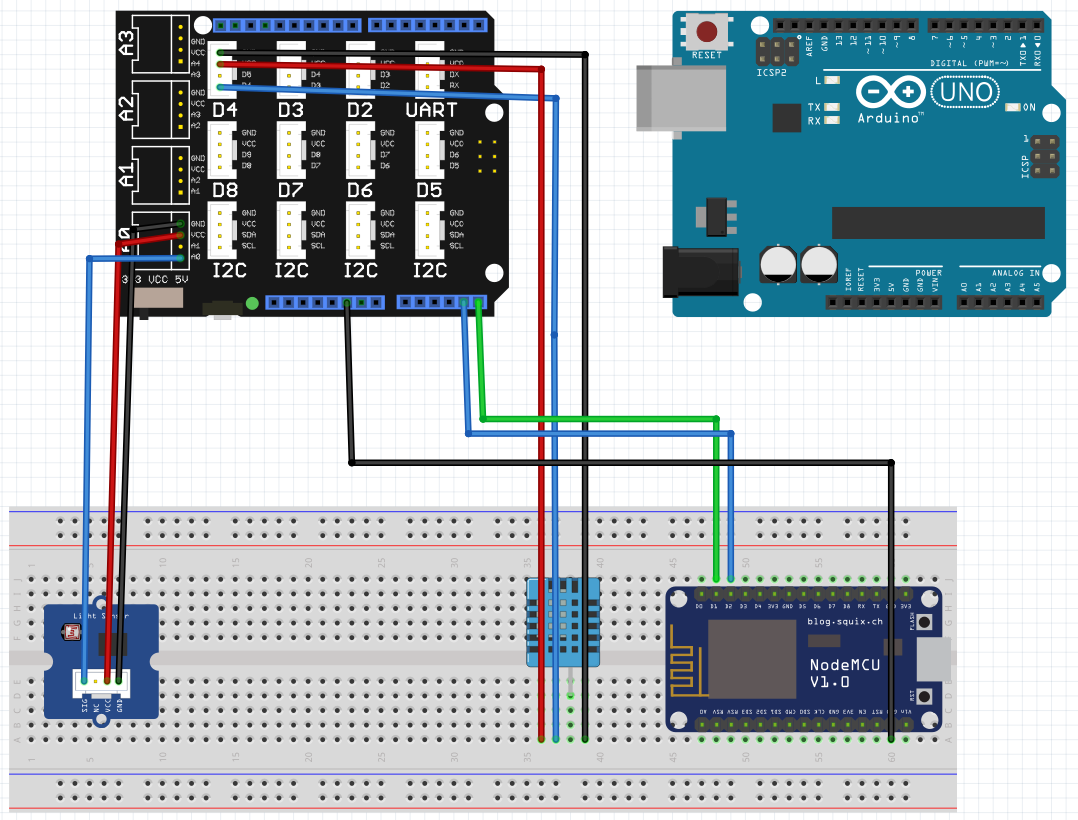
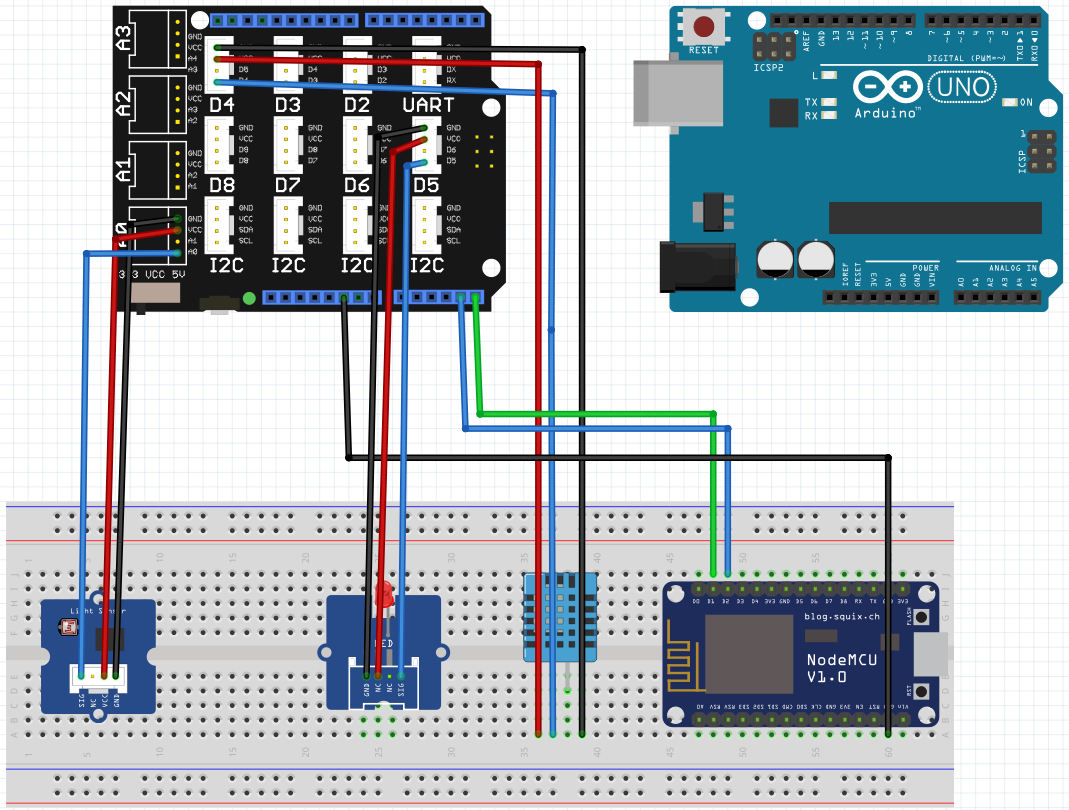
README: Add informations about LED

Changed region(s): [[0.0, 0.0, 0.8952, 1.0], [0.5865, 0.0, 1.0, 0.4012], [0.5865, 0.3086, 0.6174, 0.3395]]

diff --git a/README.md b/README.md
@@ -72,9 +72,9 @@ If you want to communicate with some database, first thing to do is creating it.
     - `brightness`
     - `humidity`
     - `temperature`
+    - `led`
 
-
-    At the end your database structure should look like on the screenshot below.
+    At the end your database structure should look like on the screenshot below. Depending on a version of application endpoint layout might be different but having less or more of them doesn't break anything. Missing endpoints will be created automatically and redundant ones will stay unused.
 
     <img src="docs/database_structure.png" alt="Final structure of created database"/>
 
@@ -100,17 +100,20 @@ Graphical representation:
 <img src="docs/components_circuit.png" alt="Final structure of created database"/>
 
 Table with pin connections:
-| Arduino UNO | NodeMCU | DHT Sensor | Light Sensor |
-|-------------|---------|------------|--------------|
-| GND         | GND     |            |              |
-| GND         |         | GND        |              |
-| GND         |         |            | GND          |
-| VCC         |         | VCC        |              |
-| VCC         |         |            | VCC          |
-| A0          |         |            | Analog Pin   |
-| D4          |         | Data Out   |              |
-| A4          | D1      |            |              |
-| A5          | D2      |            |              |
+| Arduino UNO | NodeMCU | DHT Sensor | Light Sensor | LED     |
+|-------------|---------|------------|--------------|---------|
+| GND         | GND     |            |              |         |
+| GND         |         | GND        |              |         |
+| GND         |         |            | GND          |         |
+| GND         |         |            |              | GND     |
+| VCC         |         | VCC        |              |         |
+| VCC         |         |            | VCC          |         |
+| VCC         |         |            |              | VCC     |
+| A0          |         |            | Analog Pin   |         |
+| D4          |         | Data Out   |              |         |
+| A4          | D1      |            |              |         |
+| A5          | D2      |            |              |         |
+| D5          |         |            |              | Data In |
 
 
 # Build and flash
